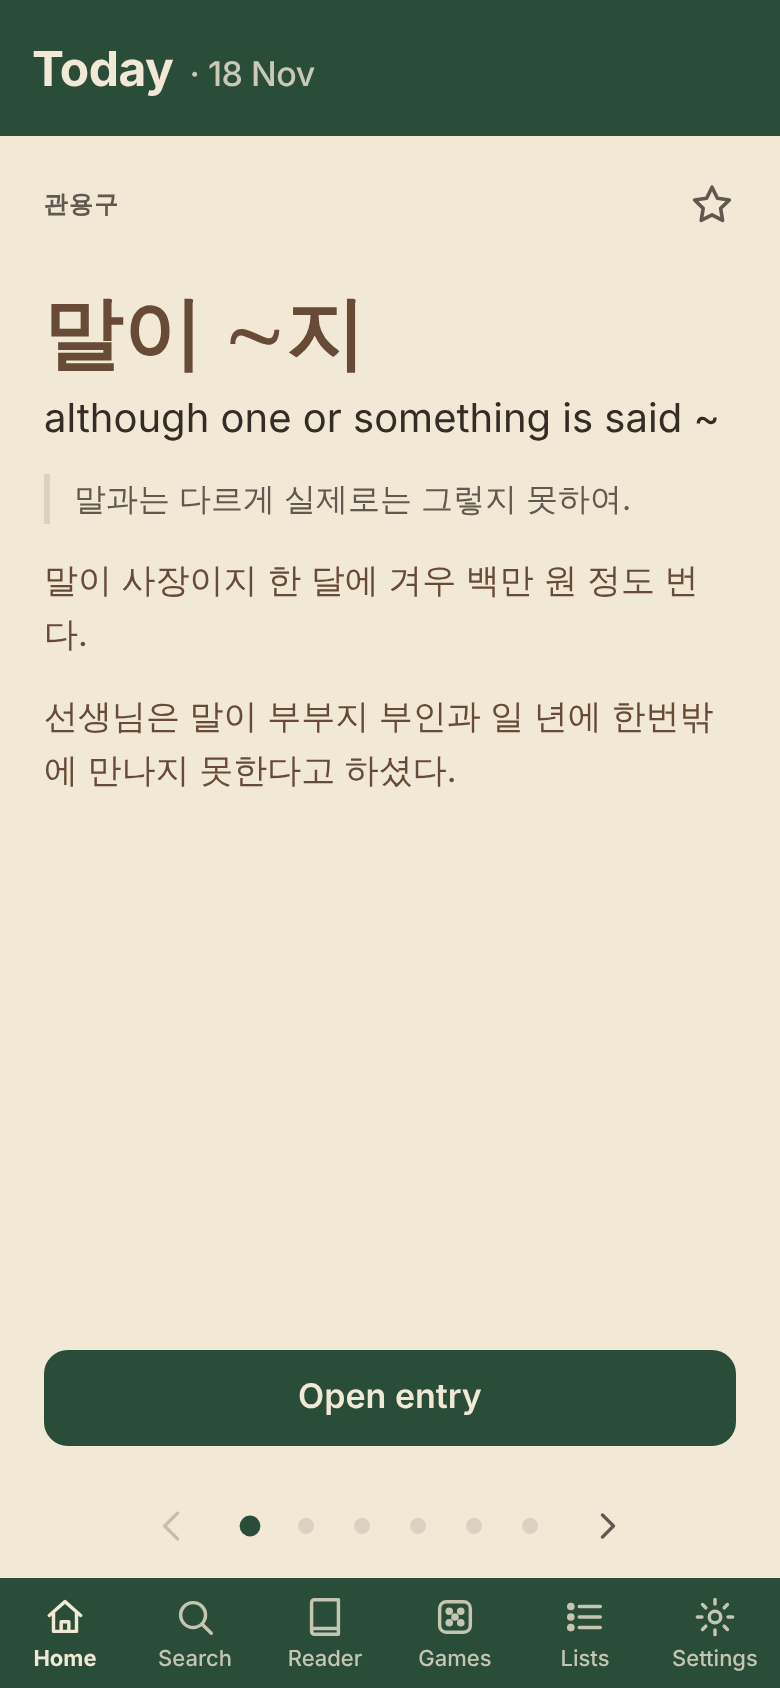
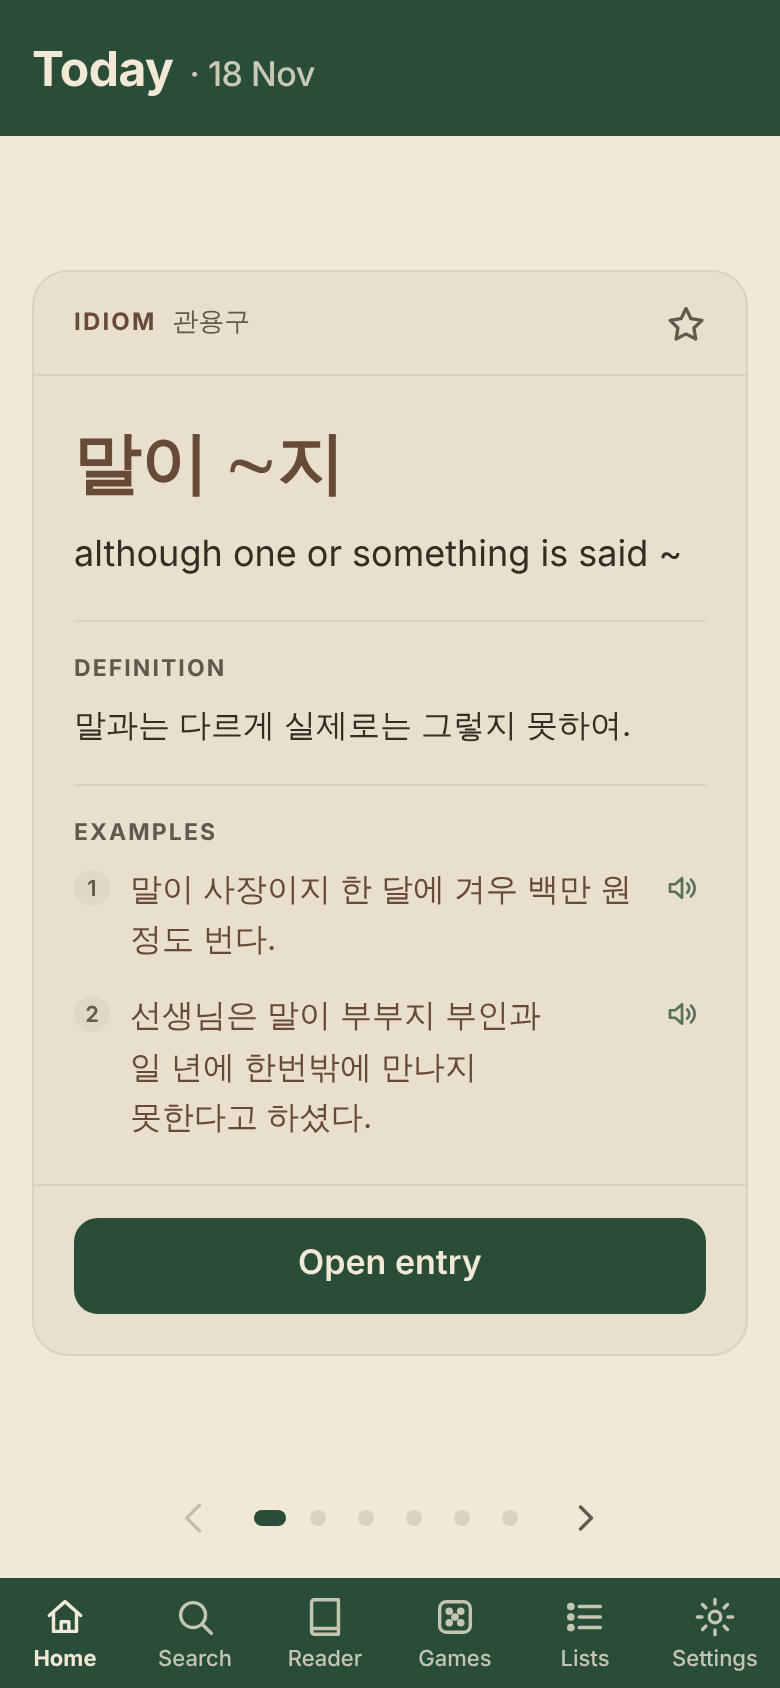
Home: one framed card per page with fixed sections; search bar only on the Search tab
Claude-Session: https://claude.ai/code/session_01KdPaeje8PEPnx6eSEhkmxd

diff --git a/app/src/styles.css b/app/src/styles.css
@@ -768,42 +768,60 @@ main:has(> .page.home) { display: flex; flex-direction: column; overflow: hidden
 .car-track::-webkit-scrollbar { display: none; }
 .car-track.dragging { scroll-snap-type: none; cursor: grabbing; user-select: none; }
 .car-track:focus-visible { outline-offset: -3px; }
-.car-slide { flex: 0 0 100%; min-width: 0; scroll-snap-align: start; scroll-snap-stop: always; overflow-y: auto; overscroll-behavior: contain; }
-.today-card { min-height: 100%; display: flex; flex-direction: column; padding: 16px 22px 18px; max-width: 640px; margin: 0 auto; box-sizing: border-box; }
-.card-head { display: flex; align-items: center; gap: 8px; min-height: 36px; }
+/* each page: one framed card, sized to its content (centred in the page), never taller than the page: the middle
+   scrolls inside the card while the header strip and "Open entry" stay put. Spacing steps 4/8/12/16/24. */
+.car-slide { flex: 0 0 100%; min-width: 0; display: flex; flex-direction: column; padding: 16px 16px 4px; scroll-snap-align: start; scroll-snap-stop: always; }
+.today-card { --card-x: 20px; width: 100%; max-width: 600px; max-height: 100%; min-height: 0; margin: auto; display: flex; flex-direction: column;
+  border: 1px solid var(--border); border-radius: 18px; background: var(--surface); overflow: hidden; }
+.card-head { flex: none; display: flex; align-items: center; gap: 8px; height: 52px; padding: 0 8px 0 var(--card-x); border-bottom: 1px solid var(--border); }
+.card-kind { font: 700 12px/1 var(--font-ui); letter-spacing: .09em; text-transform: uppercase; color: var(--heading); white-space: nowrap; }
+.card-kind-ko { margin-left: 4px; font: 500 13px/1 var(--font-ko); letter-spacing: 0; color: var(--muted); }
 .card-spacer { flex: 1; }
-.today-card .card-head .save-btn { width: 40px; height: 40px; margin: -2px -8px -2px auto; }
-.card-tag { font-size: 12px; font-weight: 700; letter-spacing: .05em; text-transform: uppercase; color: var(--muted); }
+.today-card .card-head .save-btn { width: 44px; height: 44px; }
 .cur-lvl { display: inline-flex; align-items: center; height: 24px; padding: 0 10px; border-radius: 12px; font-size: 12.5px; font-weight: 600; font-family: var(--font-ko); white-space: nowrap; background: var(--accent-soft); color: var(--accent); }
-.card-hw { display: flex; flex-wrap: wrap; align-items: baseline; gap: 4px 12px; margin: 22px 0 6px; font-weight: 400; }
-.card-hw .hangul { font-size: 40px; font-weight: 650; line-height: 1.2; overflow-wrap: anywhere; }
-.card-hw .hanja { font-size: 22px; }
+.card-body { flex: 0 1 auto; min-height: 0; overflow-y: auto; overscroll-behavior: contain; padding: 0 var(--card-x); }
+.card-top { padding: 24px 0 20px; }
+.card-hw { margin: 0; font-size: 34px; font-weight: 650; line-height: 1.2; letter-spacing: -.01em; text-wrap: balance; word-break: keep-all; overflow-wrap: anywhere; }
 .card-link { color: inherit; }
-.card-gloss { margin: 0 0 14px; font-size: 20px; line-height: 1.35; }
-.card-kodef { margin: 0 0 16px; padding-left: 12px; border-left: 3px solid var(--border); font-size: 16px; line-height: 1.55; color: var(--muted); }
-.card-exs { margin: 4px 0 18px; display: flex; flex-direction: column; gap: 14px; }
-.card-ex .ex-ko { font-size: 17px; line-height: 1.6; }
-.card-ex .ex-en { font-size: 14.5px; }
-.card-related h4 { margin: 0 0 8px; font-size: 12.5px; font-weight: 650; letter-spacing: .07em; text-transform: uppercase; color: var(--muted); }
-.card-related { margin: 12px 0 18px; }
-.card-open { margin-top: auto; width: 100%; min-height: 48px; font-size: 16px; }
-.today-card > .card-related + .card-open, .today-card > .card-exs + .card-open { margin-top: auto; }
-.car-nav { flex: none; display: flex; align-items: center; justify-content: center; gap: 6px; padding: 2px 8px 6px; }
-.car-arrow { width: 40px; height: 40px; }
+.card-sub { display: flex; flex-wrap: wrap; align-items: baseline; gap: 4px 12px; margin-top: 4px; }
+.card-sub .hanja { font-size: 19px; letter-spacing: .04em; }
+.card-sub .pos { font-size: 14px; }
+.card-gloss { margin: 12px 0 0; font-size: 18px; line-height: 1.4; color: var(--text); text-wrap: pretty; }
+.card-sec { padding: 16px 0; border-top: 1px solid var(--border); }
+.card-body > :last-child { padding-bottom: 20px; }
+.card-label { margin: 0 0 8px; font: 700 11.5px/1.3 var(--font-ui); letter-spacing: .09em; text-transform: uppercase; color: var(--muted); }
+.card-kodef.hangul { margin: 0; font-size: 16px; line-height: 1.6; color: var(--text); }
+/* Korean wraps between words (keep-all), not mid-word; English avoids one-word last lines */
+.today-card .hangul { word-break: keep-all; overflow-wrap: anywhere; }
+.today-card .ex-en { text-wrap: pretty; }
+.card-exs .exs { margin: 0; }
+.card-exs .ex { margin: 0; padding-left: 28px; }
+.card-exs .ex + .ex { margin-top: 12px; }
+.card-exs .ex-n { top: .25em; }
+.card-exs .ex-ko { font-size: 16px; line-height: 1.6; }
+.card-exs .ex-en { font-size: 14px; line-height: 1.45; }
+.card-related .chips { margin-top: 0; font-size: 16px; }
+.card-foot { flex: none; padding: 16px var(--card-x) var(--card-x); border-top: 1px solid var(--border); }
+.card-open { width: 100%; min-height: 48px; font-size: 16px; }
+.car-nav { flex: none; display: flex; align-items: center; justify-content: center; gap: 4px; padding: 4px 8px 8px; }
+.car-arrow { width: 44px; height: 44px; }
 .car-arrow:disabled { opacity: .3; }
-.car-arrow[aria-label='Next page'] svg { }
-.car-dots { display: flex; gap: 2px; }
-.car-dot { position: relative; width: 26px; height: 26px; border: 0; background: none; padding: 0; }
-.car-dot::after { content: ''; position: absolute; inset: 9px; border-radius: 50%; background: var(--border); transition: background .15s, transform .15s; }
-.car-dot[aria-current='true']::after { background: var(--accent); transform: scale(1.3); }
+.car-dots { display: flex; gap: 0; }
+.car-dot { position: relative; width: 24px; height: 32px; border: 0; background: none; padding: 0; }
+.car-dot::after { content: ''; position: absolute; left: 8px; top: 12px; width: 8px; height: 8px; border-radius: 4px; background: var(--border); transition: background .15s, width .15s, left .15s; }
+.car-dot[aria-current='true']::after { left: 4px; width: 16px; background: var(--accent); }
+@media (min-width: 600px) { .today-card { --card-x: 24px; } }
 
 /* ---- Home tab header ---- */
 .home-title { display: flex; align-items: baseline; gap: 8px; height: 48px; margin: 0; padding-top: 8px; box-sizing: border-box; font-size: 24px; font-weight: 650; letter-spacing: -.01em; color: var(--on-bar); }
 .home-date { font-size: 17px; font-weight: 500; opacity: .8; }
 .pane-left .home-head { padding-top: calc(env(safe-area-inset-top) + 14px); }
 
-/* ---- Phone: the search bar docks above the tab bar ---- */
-.topbar.dock { padding: 8px 12px; border-top: 1px solid color-mix(in srgb, var(--on-bar) 14%, var(--bar)); }
+/* ---- Phone, Search tab only: the search bar floats a little above the tab bar (right above the keyboard while typing) ---- */
+.dock { flex: none; z-index: 5; padding: 8px 16px 14px; background: var(--bg); }
+.dock .searchbar { background: var(--surface-2); border-color: var(--border); box-shadow: 0 2px 10px color-mix(in srgb, var(--text) 12%, transparent); }
+.dock .searchbar:focus-within { background: var(--bg); border-color: var(--accent); }
+.app.kb .dock { padding-bottom: 8px; }
 .app.kb .tabbar { display: none; }
 
 /* grammar mini-lessons (components/GrammarLesson.tsx): AI-written, reviewed; collapsible, open by default */

diff --git a/app/src/components/TodayCarousel.tsx b/app/src/components/TodayCarousel.tsx
@@ -7,25 +7,11 @@ import { entryPath, href, searchPath, wordPath } from '../lib/router';
 import { curriculumHint, curriculumLabel } from '../lib/home-day';
 import { useWide } from '../lib/layout';
 import type { HomeData, HomeExample, HomeRel } from '../db/types';
+import { ExampleList } from './Examples';
 import type { ItemInput } from '../lib/lists';
 
 export function CurriculumLevel({ level }: { level: number }) {
   return <span class="cur-lvl" title={curriculumHint(level)} aria-label={curriculumHint(level)}>{curriculumLabel(level)}</span>;
-}
-
-/** Example sentences: Korean, then English (with the AI chip when the English is an AI translation); a dialogue keeps one turn per line. */
-export function CardExamples({ items }: { items: HomeExample[] }) {
-  if (!items.length) return null;
-  return (
-    <ul class="plain card-exs" aria-label="Examples">
-      {items.map((x, i) => (
-        <li key={i} class="card-ex">
-          {x.ko.split('\n').map((l, j) => <div key={j} class="ex-ko hangul" lang="ko">{l}</div>)}
-          {x.en && x.en.split('\n').map((l, j) => <div key={j} class="ex-en">{x.en_ai && j === 0 && <span class="chip-ai ex-ai" title="AI translation, reviewed">AI</span>}{l}</div>)}
-        </li>
-      ))}
-    </ul>
-  );
 }
 
 const RELTYPE: Record<string, string> = { synonym: 'syn', antonym: 'ant', honorific: 'hon', humble: 'hum', 'see also': 'see', reference: 'ref', derived: 'der', variant: 'var', abbreviation: 'abbr' };
@@ -33,8 +19,8 @@ function Related({ rels }: { rels: HomeRel[] }) {
   const wide = useWide();
   if (!rels.length) return null;
   return (
-    <section class="card-related" aria-label="Related words">
-      <h4>Related</h4>
+    <section class="card-sec card-related" aria-label="Related words">
+      <h3 class="card-label">Related</h3>
       <div class="chips">
         {rels.map((r, i) => (
           <a key={i} class="chip" href={href(wide ? wordPath(r.word) : searchPath(r.word))}><span class="chip-type">{RELTYPE[r.type] ?? r.type}</span> <span class="hangul" lang="ko">{r.word}</span></a>
@@ -47,7 +33,8 @@ function Related({ rels }: { rels: HomeRel[] }) {
 interface PageSpec {
   key: string;
   kind: 'idiom' | 'word' | 'grammar';
-  tag: ComponentChildren;       // top-left: the level badge, or the idiom / proverb label
+  label: ComponentChildren;     // header strip, left: what this page is (Idiom / Proverb, Word, Grammar)
+  level?: number;               // curriculum level badge (words and grammar)
   save: ItemInput;
   title: string;
   hanja?: string | null;
@@ -65,14 +52,14 @@ function pageSpecs(h: HomeData): PageSpec[] {
     const i = h.idiom;
     out.push({
       key: `i${i.id}`, kind: 'idiom',
-      tag: <span class="card-tag" lang="ko" title={i.kind === 'proverb' ? 'Proverb' : 'Idiom'}>{i.kind === 'proverb' ? '속담' : '관용구'}</span>,
+      label: <>{i.kind === 'proverb' ? 'Proverb' : 'Idiom'} <span class="card-kind-ko" lang="ko">{i.kind === 'proverb' ? '속담' : '관용구'}</span></>,
       save: { kind: 'entry', source: i.source, headword: i.headword, homonym: i.homonym, pos: i.kind, gloss: i.gloss },
       title: i.headword, gloss: i.gloss, koDef: i.ko_def, examples: i.examples, related: i.related, path: entryPath(i.source, i.id, i.headword),
     });
   }
   for (const w of h.words) {
     out.push({
-      key: `w${w.id}`, kind: 'word', tag: <CurriculumLevel level={w.level} />,
+      key: `w${w.id}`, kind: 'word', label: 'Word', level: w.level,
       save: { kind: 'entry', source: w.source, headword: w.headword, homonym: w.homonym, pos: w.pos, hanja: w.hanja, gloss: w.gloss },
       title: w.headword, hanja: w.hanja, pos: w.pos, gloss: w.gloss, koDef: w.ko_def, examples: w.examples, related: w.related, path: entryPath(w.source, w.id, w.headword),
     });
@@ -80,7 +67,7 @@ function pageSpecs(h: HomeData): PageSpec[] {
   for (const g of h.grammar) {
     out.push({
       key: `g${g.id}`, kind: 'grammar',
-      tag: <><span class="card-tag">Grammar</span><CurriculumLevel level={g.level} /></>,
+      label: 'Grammar', level: g.level,
       save: { kind: 'grammar', pattern: g.pattern, summary: g.summary_en, level: g.level, ref: g.entry ? { source: g.entry.source, homonym: g.entry.homonym, pos: g.entry.pos } : null },
       title: g.pattern, gloss: g.summary_en, koDef: g.ko_def, examples: g.examples, related: g.related,
       path: g.entry ? entryPath(g.entry.source, g.entry.id, g.pattern) : wordPath(g.pattern),
@@ -89,26 +76,47 @@ function pageSpecs(h: HomeData): PageSpec[] {
   return out;
 }
 
-/** One whole page: badge + star, the headword large, English, Korean definition, examples, related words, "Open entry". */
+const MAX_EXAMPLES = 3;
+
+/** One page: a framed card with fixed sections in a fixed order. Header strip (kind · level · save), the headword
+ *  (hanja and part of speech under it) and its English meaning, then labelled blocks (Definition, Examples,
+ *  Related; a block without content is left out) and "Open entry". The middle scrolls inside the card when long. */
 function Page({ p, n, total }: { p: PageSpec; n: number; total: number }) {
+  const exs = p.examples.slice(0, MAX_EXAMPLES);
   return (
     <div class="car-slide" role="group" aria-roledescription="slide" aria-label={`${n} of ${total}`}>
       <article class="today-card" data-kind={p.kind}>
         <header class="card-head">
-          {p.tag}
+          <span class="card-kind">{p.label}</span>
+          {p.level != null && <CurriculumLevel level={p.level} />}
           <span class="card-spacer" />
-          <SaveButton item={p.save} title={p.title} size={24} />
+          <SaveButton item={p.save} title={p.title} size={22} />
         </header>
-        <h2 class="card-hw">
-          <a class="card-link" href={href(p.path)}><span class="hangul" lang="ko">{p.title}</span></a>
-          {p.hanja && <Hanja text={p.hanja} />}
-          <Pos pos={p.pos} />
-        </h2>
-        {p.gloss && <p class="card-gloss">{p.gloss}</p>}
-        {p.koDef && <p class="card-kodef hangul" lang="ko">{p.koDef}</p>}
-        <CardExamples items={p.examples} />
-        <Related rels={p.related} />
-        <a class="btn primary card-open" href={href(p.path)}>Open entry</a>
+        <div class="card-body">
+          <div class="card-top">
+            <h2 class="card-hw">
+              <a class="card-link" href={href(p.path)}><span class="hangul" lang="ko">{p.title}</span></a>
+            </h2>
+            {(p.hanja || p.pos) && <div class="card-sub">{p.hanja && <Hanja text={p.hanja} />}<Pos pos={p.pos} /></div>}
+            {p.gloss && <p class="card-gloss">{p.gloss}</p>}
+          </div>
+          {p.koDef && (
+            <section class="card-sec" aria-label="Definition">
+              <h3 class="card-label">Definition</h3>
+              <p class="card-kodef hangul" lang="ko">{p.koDef}</p>
+            </section>
+          )}
+          {exs.length > 0 && (
+            <section class="card-sec card-exs" aria-label="Examples">
+              <h3 class="card-label">Examples</h3>
+              <ExampleList items={exs} />
+            </section>
+          )}
+          <Related rels={p.related} />
+        </div>
+        <footer class="card-foot">
+          <a class="btn primary card-open" href={href(p.path)}>Open entry</a>
+        </footer>
       </article>
     </div>
   );

diff --git a/app/e2e/home.spec.ts b/app/e2e/home.spec.ts
@@ -20,7 +20,7 @@ const titles = (page: Page) => texts(page.locator('.today-card .card-hw .hangul'
 const kinds = (page: Page) => page.locator('.today-card').evaluateAll((els) => els.map((e) => e.getAttribute('data-kind')));
 const dateRe = /^Today\s*·\s*\d{1,2} [A-Z][a-z]{2}$/;
 
-test('home: full-page cards, six tabs, search bar docked at the bottom', async ({ page }) => {
+test('home: one framed card per page, six tabs, search bar only on the Search tab', async ({ page }) => {
   test.setTimeout(600_000);
   await page.goto('/');
   await downloadAll(page);
@@ -47,10 +47,20 @@ test('home: full-page cards, six tabs, search bar docked at the bottom', async (
   await expect(slides(page)).toHaveCount(n);
   expect(await kinds(page)).toEqual(HAS_CURRICULUM ? ['idiom', 'word', 'word', 'word', 'grammar', 'grammar'] : ['idiom']);
   const idiom = page.locator('.today-card[data-kind=idiom]');
-  await expect(idiom.locator('.card-tag')).toHaveText(/관용구|속담/);
+  await expect(idiom.locator('.card-kind')).toHaveText(/^(Idiom 관용구|Proverb 속담)$/);
+  await expect(idiom.locator('.cur-lvl')).toHaveCount(0);           // idioms have no curriculum level
   await expect(idiom.locator('.card-gloss')).not.toBeEmpty();
-  await expect(idiom.locator('.card-ex .ex-ko').first()).toBeVisible();
+  await expect(idiom.locator('.card-exs .ex-ko').first()).toBeVisible();
   await expect(idiom.getByRole('link', { name: 'Open entry' })).toBeVisible();
+  // fixed sections in a fixed order; an empty block is left out, never shown empty
+  const order = (card: import('@playwright/test').Locator) => card.locator('.card-label').evaluateAll((els) => els.map((e) => e.textContent));
+  const SECTIONS = ['Definition', 'Examples', 'Related'];
+  const isOrdered = (got: (string | null)[]) => got.every((x, i) => SECTIONS.indexOf(x!) >= 0 && (i === 0 || SECTIONS.indexOf(x!) > SECTIONS.indexOf(got[i - 1]!)));
+  expect(isOrdered(await order(idiom))).toBe(true);
+  // the card sits inside the page with margins, and the button belongs to it
+  const cb = (await idiom.boundingBox())!, ob = (await idiom.getByRole('link', { name: 'Open entry' }).boundingBox())!;
+  expect(cb.x).toBeGreaterThanOrEqual(12);
+  expect(ob.y + ob.height).toBeLessThanOrEqual(cb.y + cb.height);
   // the first page fills the space between header and tab bar
   const track = pager(page).locator('.car-track');
   const tb = (await track.boundingBox())!, hb = (await page.locator('.topbar').first().boundingBox())!, nb = (await nav.boundingBox())!;
@@ -85,8 +95,12 @@ test('home: full-page cards, six tabs, search bar docked at the bottom', async (
     // a word page: badge, headword, gloss, Korean definition, examples, Open entry
     const w = page.locator('.today-card[data-kind=word]').first();
     await expect(w.locator('.card-gloss')).not.toBeEmpty();
-    await expect(w.locator('.card-ex .ex-ko').first()).toBeVisible();
-    expect(await w.locator('.card-ex').count()).toBeLessThanOrEqual(3);
+    await expect(w.locator('.card-kind')).toHaveText('Word');
+    await expect(w.locator('.card-exs .ex-ko').first()).toBeVisible();
+    expect(await w.locator('.card-exs .ex').count()).toBeLessThanOrEqual(3);
+    for (const c of await page.locator('.today-card').all()) expect(isOrdered(await order(c))).toBe(true);
+    // every card's header strip is one line: kind, level, star
+    for (const c of await page.locator('.today-card .card-head').all()) expect((await c.boundingBox())!.height).toBeLessThan(60);
     await expect(w.getByRole('link', { name: 'Open entry' })).toBeVisible();
     await page.waitForTimeout(400);
     await shot(page, 'home-phone');
@@ -152,19 +166,25 @@ test('home: full-page cards, six tabs, search bar docked at the bottom', async (
     await page.clock.resume();
   }
 
-  // ---- the Search tab: Recent only, search bar docked above the tab bar ----
+  // ---- the Search tab: Recent only, search bar low on the screen with a gap above the tab bar ----
   await nav.getByRole('link', { name: 'Search' }).click();
   await expect(page.getByRole('heading', { name: 'Recent' })).toBeVisible();
   await expect(pager(page)).toHaveCount(0);
   const bar = page.getByRole('searchbox', { name: 'Search' });
   const vh = page.viewportSize()!.height;
-  const bb = (await bar.boundingBox())!, nb2 = (await nav.boundingBox())!;
-  expect(bb.y).toBeGreaterThan(vh * 0.7);              // lower part of the screen
-  expect(bb.y + bb.height).toBeLessThanOrEqual(nb2.y); // above the tab bar, not under it
+  const barGap = async () => {
+    const bb = (await page.locator('form.searchbar').boundingBox())!, nb2 = (await nav.boundingBox())!;
+    expect(bb.y).toBeGreaterThan(vh * 0.7);              // lower part of the screen
+    const gap = nb2.y - (bb.y + bb.height);              // above the tab bar, not under it or flush on it
+    expect(gap).toBeGreaterThanOrEqual(12);
+    expect(gap).toBeLessThanOrEqual(20);
+  };
+  await barGap();
   await page.waitForTimeout(300);
   await shot(page, 'search-phone');
   await bar.fill('학교');
   await expect(page.locator('.row .hw', { hasText: '학교' }).first()).toBeVisible();
+  await barGap();                                        // the results list keeps it
   await page.waitForTimeout(300);
   await shot(page, 'search-phone-results');
   // a keyboard shrinks the viewport: the bar stays whole, right above it, and the tab bar gets out of the way
@@ -179,9 +199,23 @@ test('home: full-page cards, six tabs, search bar docked at the bottom', async (
   await shot(page, 'search-phone-keyboard');
   await page.setViewportSize({ width: 390, height: 844 });
   await expect(nav).toBeVisible();
+  // ---- no search bar anywhere else: an entry (even one opened from the results), Lists, Settings, Home ----
+  await bar.blur();
+  await page.locator('a.row', { has: page.locator('.hw', { hasText: '학교' }) }).first().click();
+  await expect(page).toHaveURL(/#\/(entry|word)\//);
+  await expect(page.locator('h1')).toContainText('학교');
+  await expect(bar).toHaveCount(0);
+  await expect(nav.getByRole('link', { name: 'Search' })).toHaveAttribute('aria-current', 'page');
+  await nav.getByRole('link', { name: 'Search' }).click();     // the Search tab brings the results (and the bar) back
+  await expect(page).toHaveURL(/q=/);
+  await expect(bar).toHaveValue('학교');
   await bar.fill('');
   await expect(page.getByRole('heading', { name: 'Recent' })).toBeVisible();
-  await nav.getByRole('link', { name: 'Home' }).click();
+  for (const tab of ['Lists', 'Settings', 'Reader', 'Games', 'Home']) {
+    await nav.getByRole('link', { name: tab }).click();
+    await expect(nav.getByRole('link', { name: tab })).toHaveAttribute('aria-current', 'page');
+    await expect(bar).toHaveCount(0);
+  }
   await expect(pager(page)).toBeVisible();
 });
 

diff --git a/app/src/App.tsx b/app/src/App.tsx
@@ -111,13 +111,14 @@ export function App() {
       </div>
     );
   }
-  // Phone: the search bar sits at the bottom (one-handed), just above the tab bar; Results and Recent scroll above it.
-  const dock = route.name !== 'home' && !readerRoute && route.name !== 'games';
+  // Phone: the search bar belongs to the Search tab only (Recent and the results list), low on the screen for one
+  // hand, a little above the tab bar; Results and Recent scroll above it. Entries, Lists, Settings… have none.
+  const dock = route.name === 'search';
   return (
     <div class={kb ? 'app kb' : 'app'}>
       {route.name === 'home' && <HomeHeader />}
       <main ref={main} id="main" tabIndex={-1} class={readerRoute && route.parts[0] ? 'reader-host' : undefined}>{view(route)}</main>
-      {dock && <footer class="topbar dock"><SearchBar /></footer>}
+      {dock && <footer class="dock"><SearchBar /></footer>}
       <TabBar />
       <Toast />
       <ListPicker />
